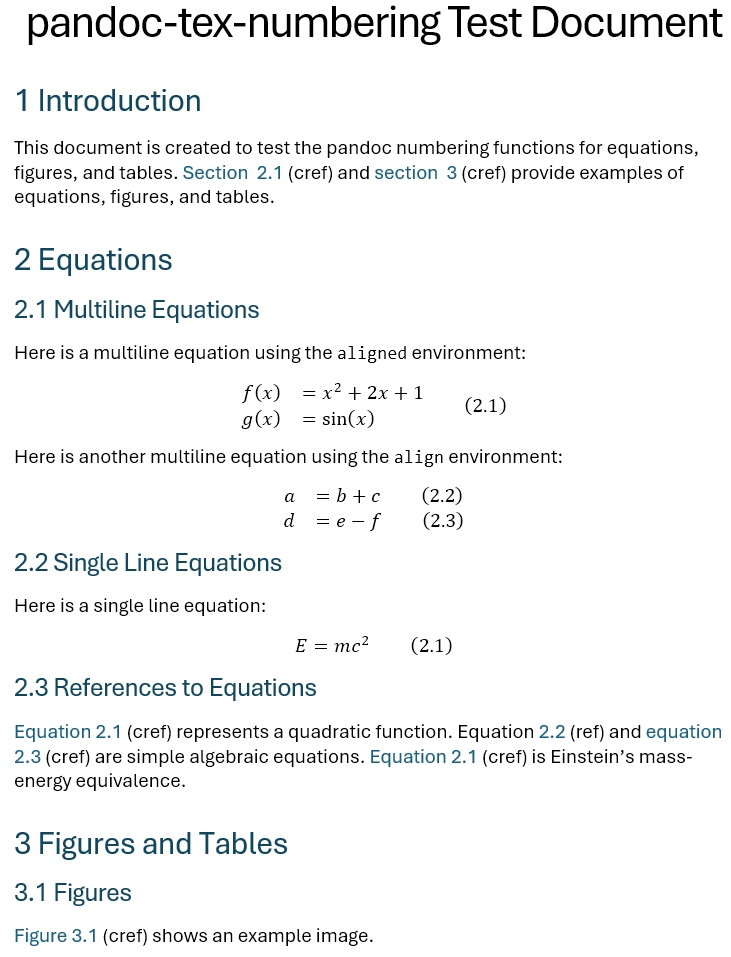
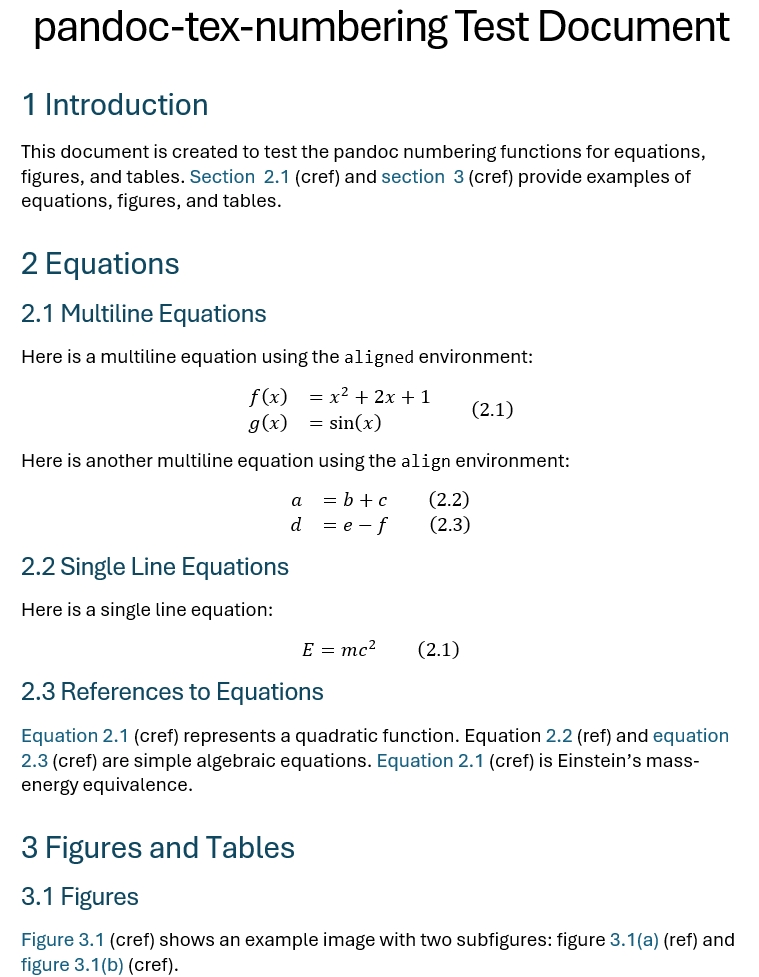
update reademe for subfigure support

diff --git a/test_data/test.tex b/test_data/test.tex
@@ -6,6 +6,7 @@
 \usepackage{cleveref} % Added cleveref package
 \usepackage{longtable} % Added longtable package
 \usepackage{bicaption}
+\usepackage{subcaption}
 
 % Custom names for cref
 \crefname{equation}{equation}{equations}
@@ -16,7 +17,6 @@
 \title{pandoc-tex-numbering Test Document}
 \begin{document}
 \maketitle
-\listoffigures
 \section{Introduction}
 This document is created to test the pandoc numbering functions for equations, figures, and tables. \Cref{sec:equations} (cref) and \cref{sec:figures_tables} (cref) provide examples of equations, figures, and tables.
 
@@ -52,12 +52,22 @@ Here is a single line equation:
 \section{Figures and Tables\label{sec:figures_tables}}
 
 \subsection{Figures}
-\Cref{fig:example} (cref) shows an example image.
+\Cref{fig:example} (cref) shows an example image with two subfigures: figure \ref{fig:subfig1} (ref) and \cref{fig:subfig2} (cref).
 
 \begin{figure}[H]
-    \centering
-    \includegraphics[width=0.5\textwidth]{./example-image}
-    \caption[short caption]{Example Image}
+    \begin{subfigure}[b]{0.5\textwidth}
+        \centering
+        \includegraphics[width=0.5\textwidth]{./example-image}
+        \caption{Subfigure 1}
+        \label{fig:subfig1}
+    \end{subfigure}
+    \begin{subfigure}[b]{0.5\textwidth}
+        \centering
+        \includegraphics[width=0.5\textwidth]{./example-image}
+        \caption{Subfigure 2}
+        \label{fig:subfig2}
+    \end{subfigure}
+    \caption[short caption]{Example Figure}
     \label{fig:example}
 \end{figure}
 

diff --git a/README.md b/README.md
@@ -63,8 +63,13 @@ For the section numbering, you can customize the format of the section numbering
 - `section-format-ref-1`, `section-format-ref-2`,...: The format of the section numbering used in the references. **If set, this will override the `section-prefix` metadata**. Default is `"{h1}"`, `"{h1}.{h2}"`, etc. combined with the `section-prefix` and `prefix-space` metadata.
 - `non-arabic_numbers`: Whether to use non-arabic numbers for the section numbering. Default is `false`. If set to `true`, all non arabic section fields are also supported, and in this case, **the `lang_num.py` file must also be included in the same directory as the filter.**
 
+### Subfigure Support
+You can use the `subcaption` package to create subfigures. The filter will automatically number the subfigures. You can customize the subfigure numbering by setting the following metadata:
+- `subfigure-symbols`: The symbols used for subfigure numbering. Default is `"abcdefghijklmnopqrstuvwxyz"`. The symbols will be used in the order specified. You must ensure that the number of symbols is greater than or equal to the number of subfigures in a figure.
+- `subfigure-format`: The format of the subfigures used in captions and references. This is a python f-string format similar to the section numbering format. Default is `"{sym}"`. The available fields are `sym` and `num`. `sym` is the symbol of the subfigure and `num` is the number of the subfigure. For example, if you set `subfigure-format="({sym})"`(i.e. parentheses around the symbol), the subfigures will be shown as "(a)", "(b)" etc. in the captions and references.
+
 ### Caption Renaming
-The `figure-prefix` and `table-prefix` metadata are also used to rename the captions of figures and tables.
+The `figure-prefix` and `table-prefix` metadata are also used to rename the captions of figures and tables (but they are not used in subfigures and subtables).
 
 ## `org` file support
 
@@ -177,6 +182,7 @@ In the following example, we custom the following (maybe silly) items *only for 
 - Reset the numbering at the second level sections, such that the numbering will be shown as "1.1.1", "3.2.1" etc.
 - At the beginning of sections, use Chinese numbers "第一章" for the first level sections and English numbers "Section 1.1" for the second level sections.
 - When referred to, use, in turn, "Chapter 1", "第1.1节" etc.
+- For subfigures, use greek letters combined with arabic numbers and replace the parentheses with square brackets, such that the subfigures will be shown as "[α1]", "[β2]" etc.
 
 **In this case, please note that the `lang_num.py` file must be also included in the same directory as the filter.**
 
@@ -197,6 +203,8 @@ section-format-source-1: "第{h1_zh}章"
 section-format-source-2: "Section {h1}.{h2}."
 section-format-ref-1: "Chapter {h1}"
 section-format-ref-2: "第{h1}.{h2}节"
+subfigure-format: "[{sym}({num})]"
+subfigure-symbols: "αβγδεζηθικλμνξοπρστυφχψω"
 ```
 
 The results are shown as follows:
